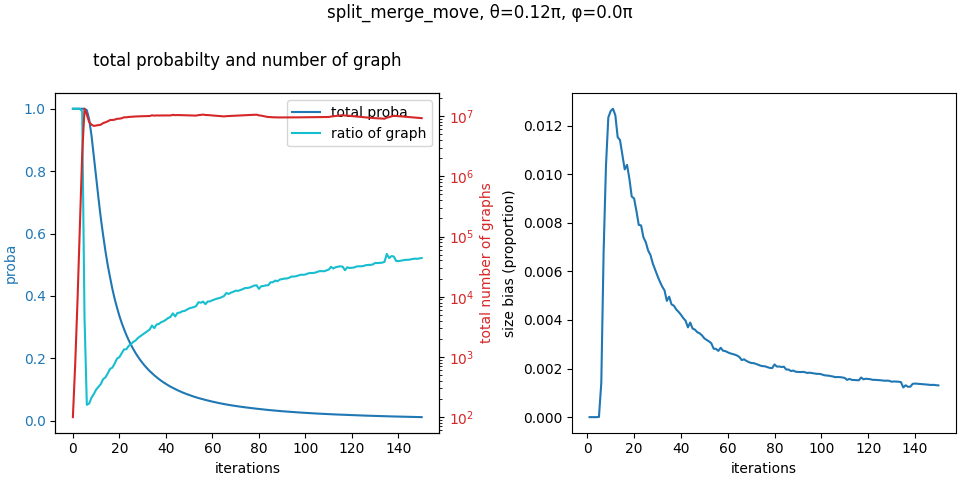
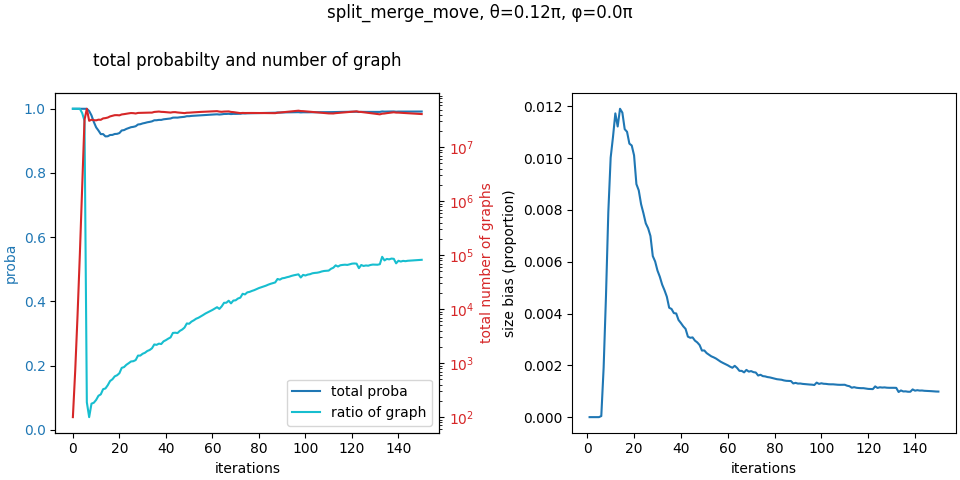
changed the way the max number of graphs

diff --git a/v6/src/state.hpp b/v6/src/state.hpp
@@ -503,6 +503,9 @@ Non-virtual member functions are:
 	!!!!!!!!! */
 
 	long int inline max_num_graphs() {
+		if (next_iteration.num_graphs == 0)
+			return -1;
+
 		auto [total_memory, free_mem] = get_mem_usage_and_free_mem();
 
 		const long int graph_mem_usage = 2*sizeof(PROBA_TYPE) + 2*sizeof(unsigned int) + sizeof(unsigned short int);
@@ -511,13 +514,18 @@ Non-virtual member functions are:
 		const long int symbolic_mem_usage = sizeof(char) + 2*sizeof(unsigned int) + sizeof(unsigned short int) + sizeof(size_t) + 2*sizeof(PROBA_TYPE) + sizeof(float);
 
 		long int mem_usage_per_graph = (graph_mem_usage +
-			(node_mem_usage * current_iteration.node_begin[current_iteration.num_graphs] +
-			sub_node_mem_usage * current_iteration.sub_node_begin[current_iteration.num_graphs] +
-			symbolic_mem_usage * symbolic_num_graphs) / current_iteration.num_graphs
+			(node_mem_usage * next_iteration.node_begin[next_iteration.num_graphs] +
+			sub_node_mem_usage * next_iteration.sub_node_begin[next_iteration.num_graphs] +
+			symbolic_mem_usage * symbolic_num_graphs) / next_iteration.num_graphs
 			) * upsize_policy;
 
-			long int mem_difference = free_mem - total_memory*safety_margin;
-			return (current_iteration.num_graphs + next_iteration.num_graphs + mem_difference / mem_usage_per_graph) / 2;
+		long int mem_difference = free_mem - total_memory*safety_margin;
+		long int max_num_graph = (current_iteration.num_graphs + next_iteration.num_graphs + mem_difference / mem_usage_per_graph) / 2;
+
+		if (max_num_graph <= 0)
+			max_num_graph = current_iteration.num_graphs;
+
+		return std::max(max_num_graph, (long int)min_state_size);
 	}
 
 	/* step function */
